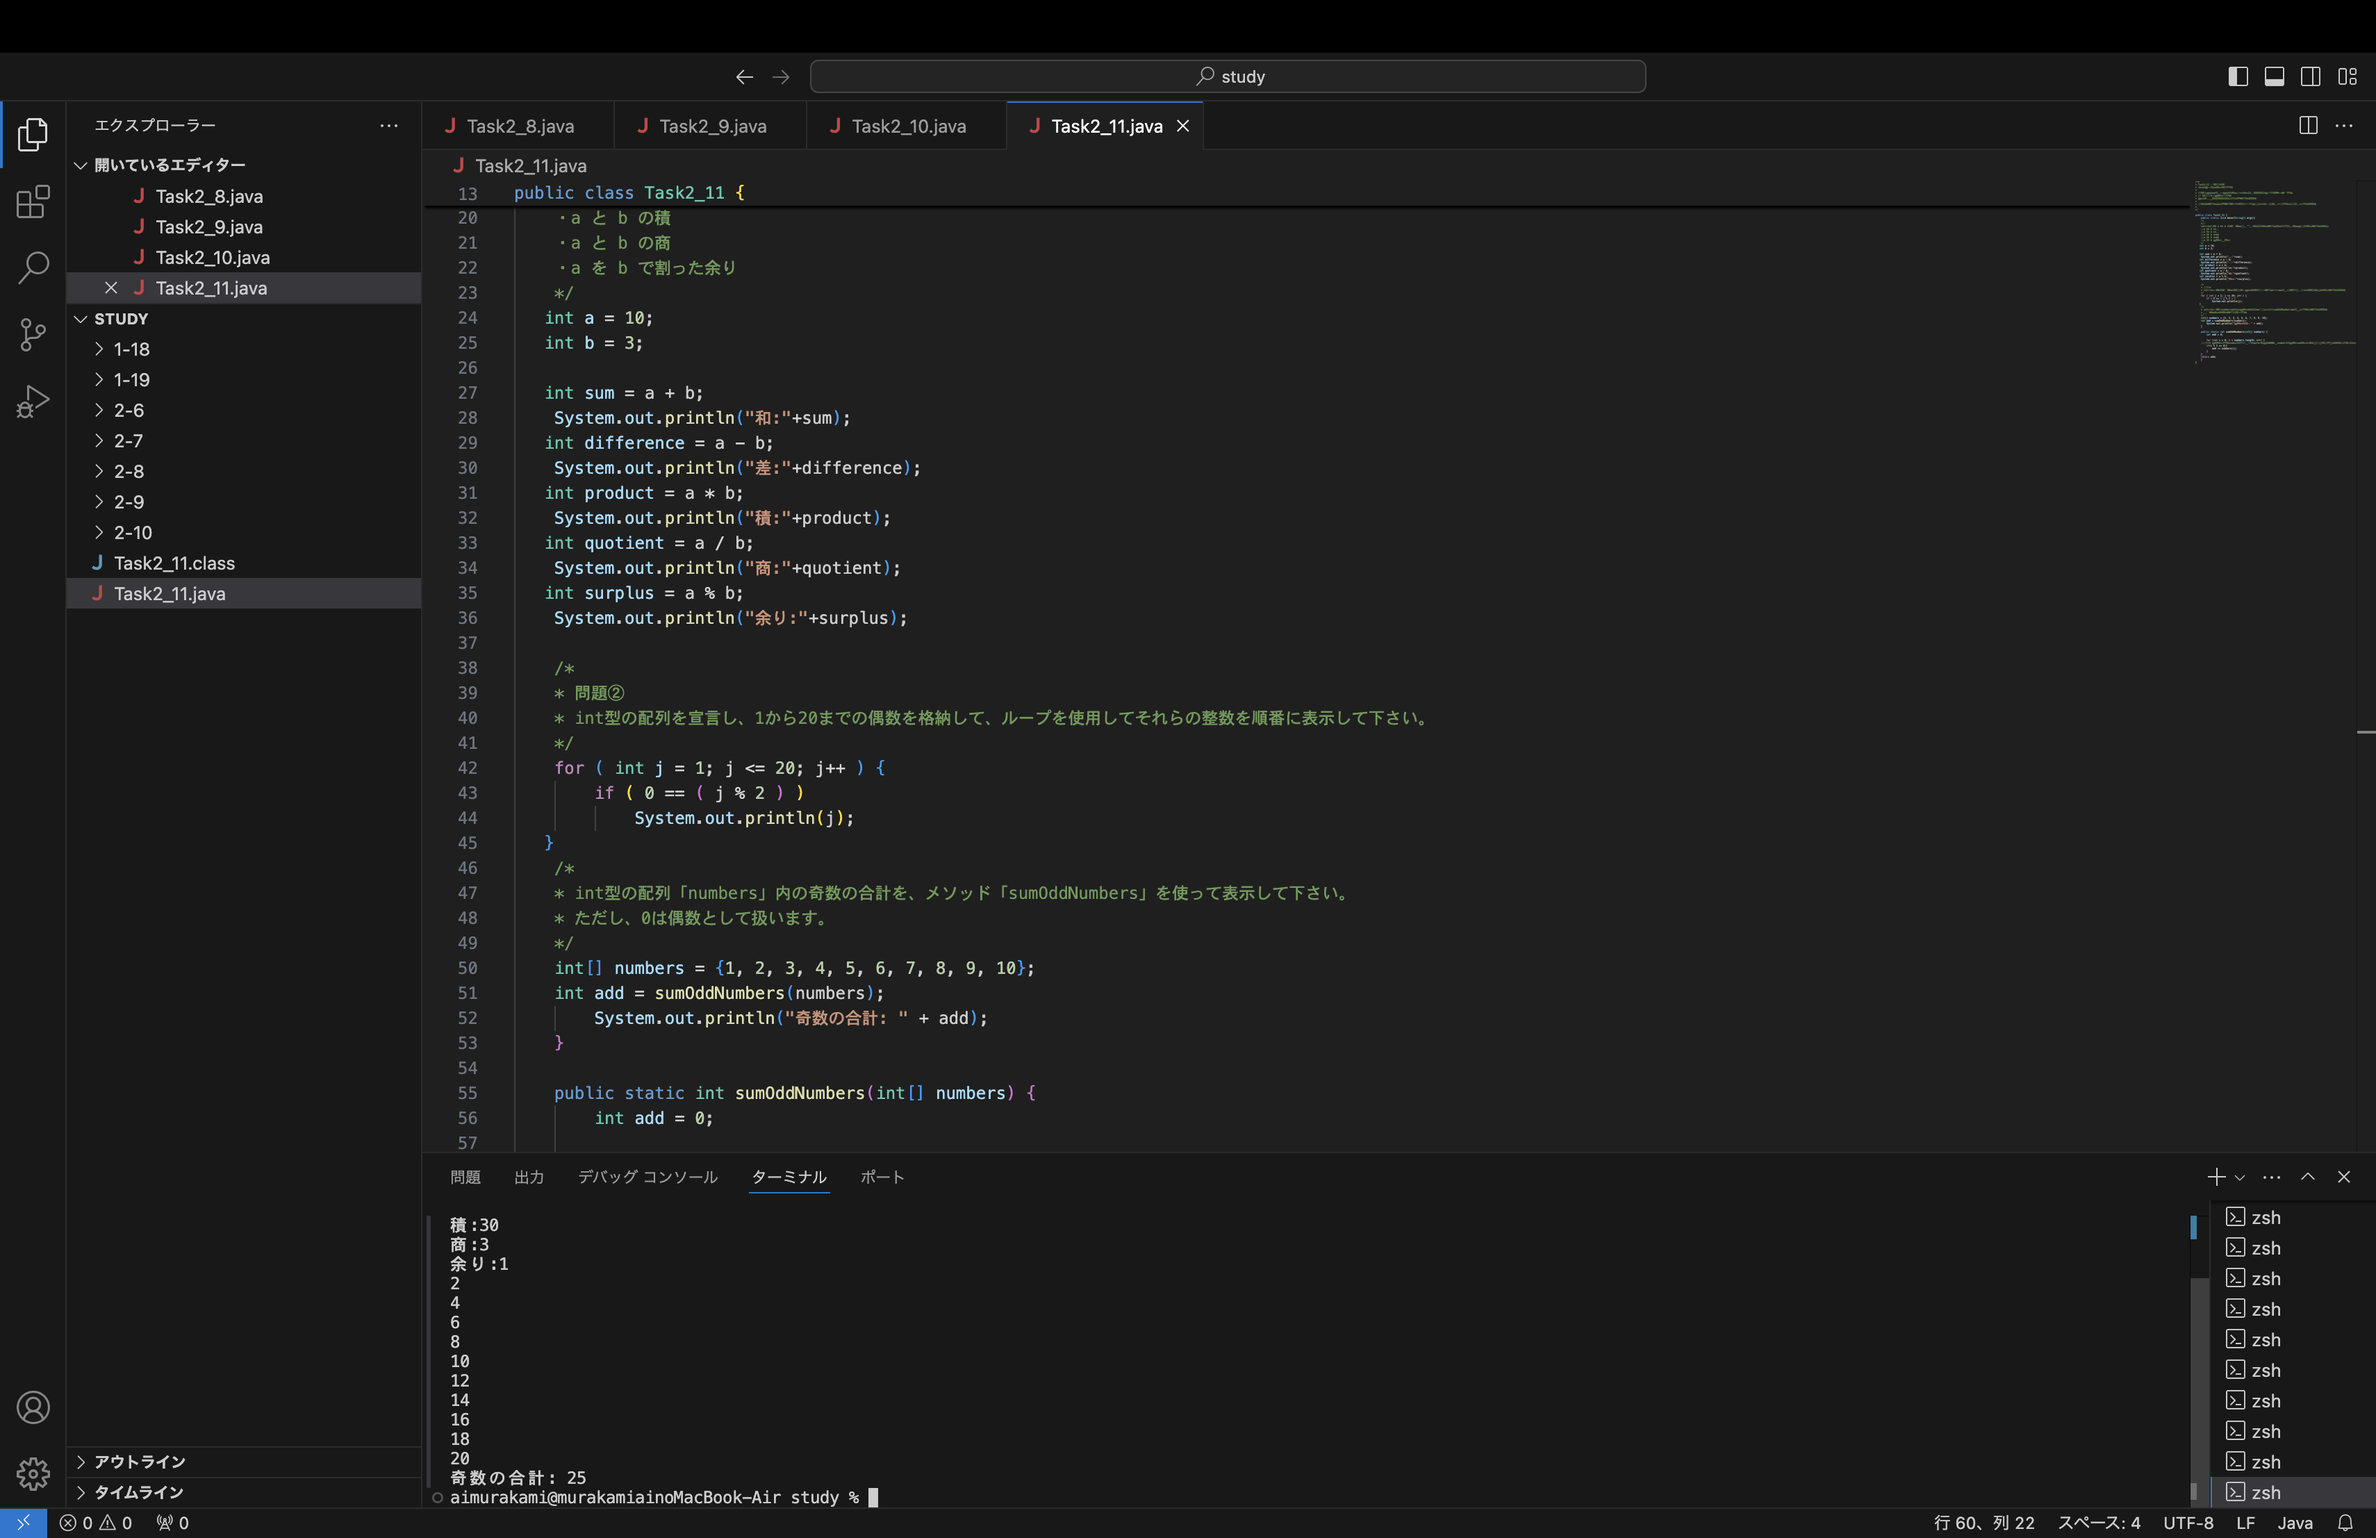
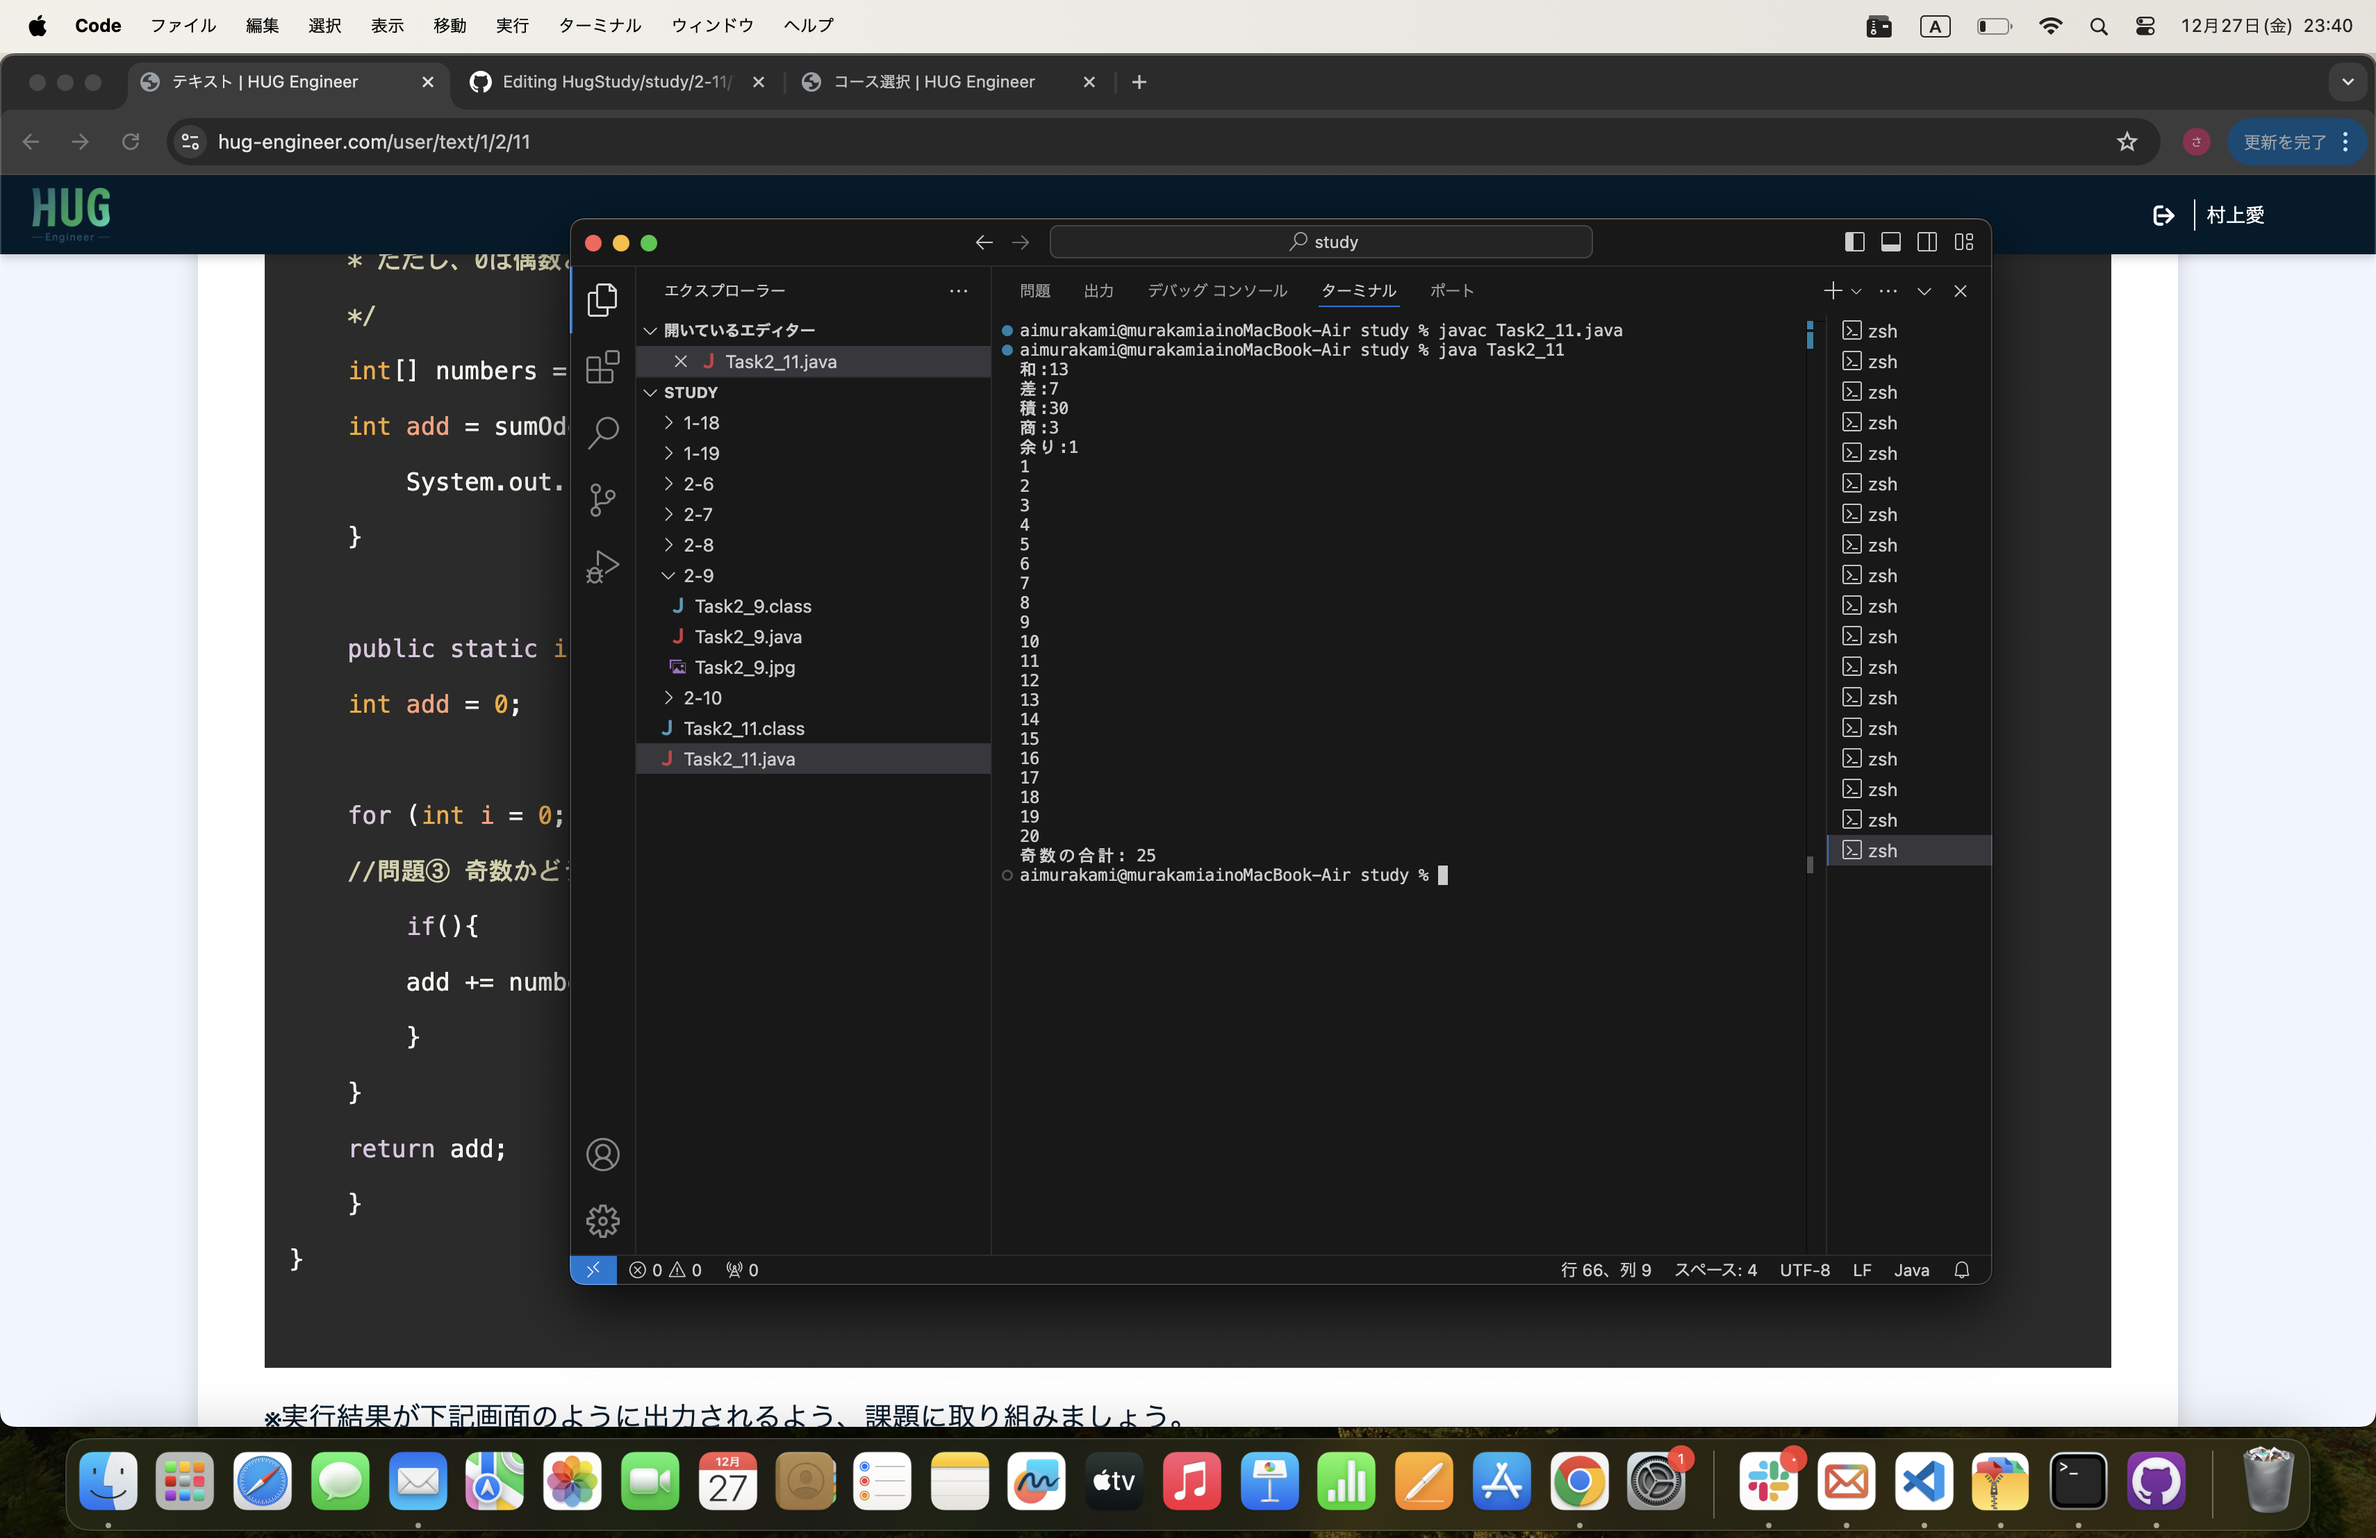
2-11

diff --git a/study/2-11/Task2_11.java b/study/2-11/Task2_11.java
@@ -39,9 +39,9 @@ public class Task2_11 {
     * 問題②
     * int型の配列を宣言し、1から20までの偶数を格納して、ループを使用してそれらの整数を順番に表示して下さい。
     */
-    for ( int j = 1; j <= 20; j++ ) {
-		if ( 0 == ( j % 2 ) )
-			System.out.println(j);
+    int[] number = {1, 2, 3, 4, 5, 6, 7, 8, 9, 10, 11, 12, 13, 14, 15, 16, 17, 18, 19, 20};
+		for (int i = 0; i < number.length; i++) {
+            System.out.println(number[i]);
    }
     /*
     * int型の配列「numbers」内の奇数の合計を、メソッド「sumOddNumbers」を使って表示して下さい。
@@ -57,10 +57,12 @@ public class Task2_11 {
         
         for (int i = 0; i < numbers.length; i++) {
     //問題③ 奇数かどうかの判定をするために、for文で取得したnumberを2で割り、余りが0にならないような条件文(if文)を記載して下さい。
-        if(i % 2 == 0){
+        if((i % 2) == 0){
             add += numbers[i];
+        }else{
+
         }
     }
-    return add;
+        return add;
     }
 }
